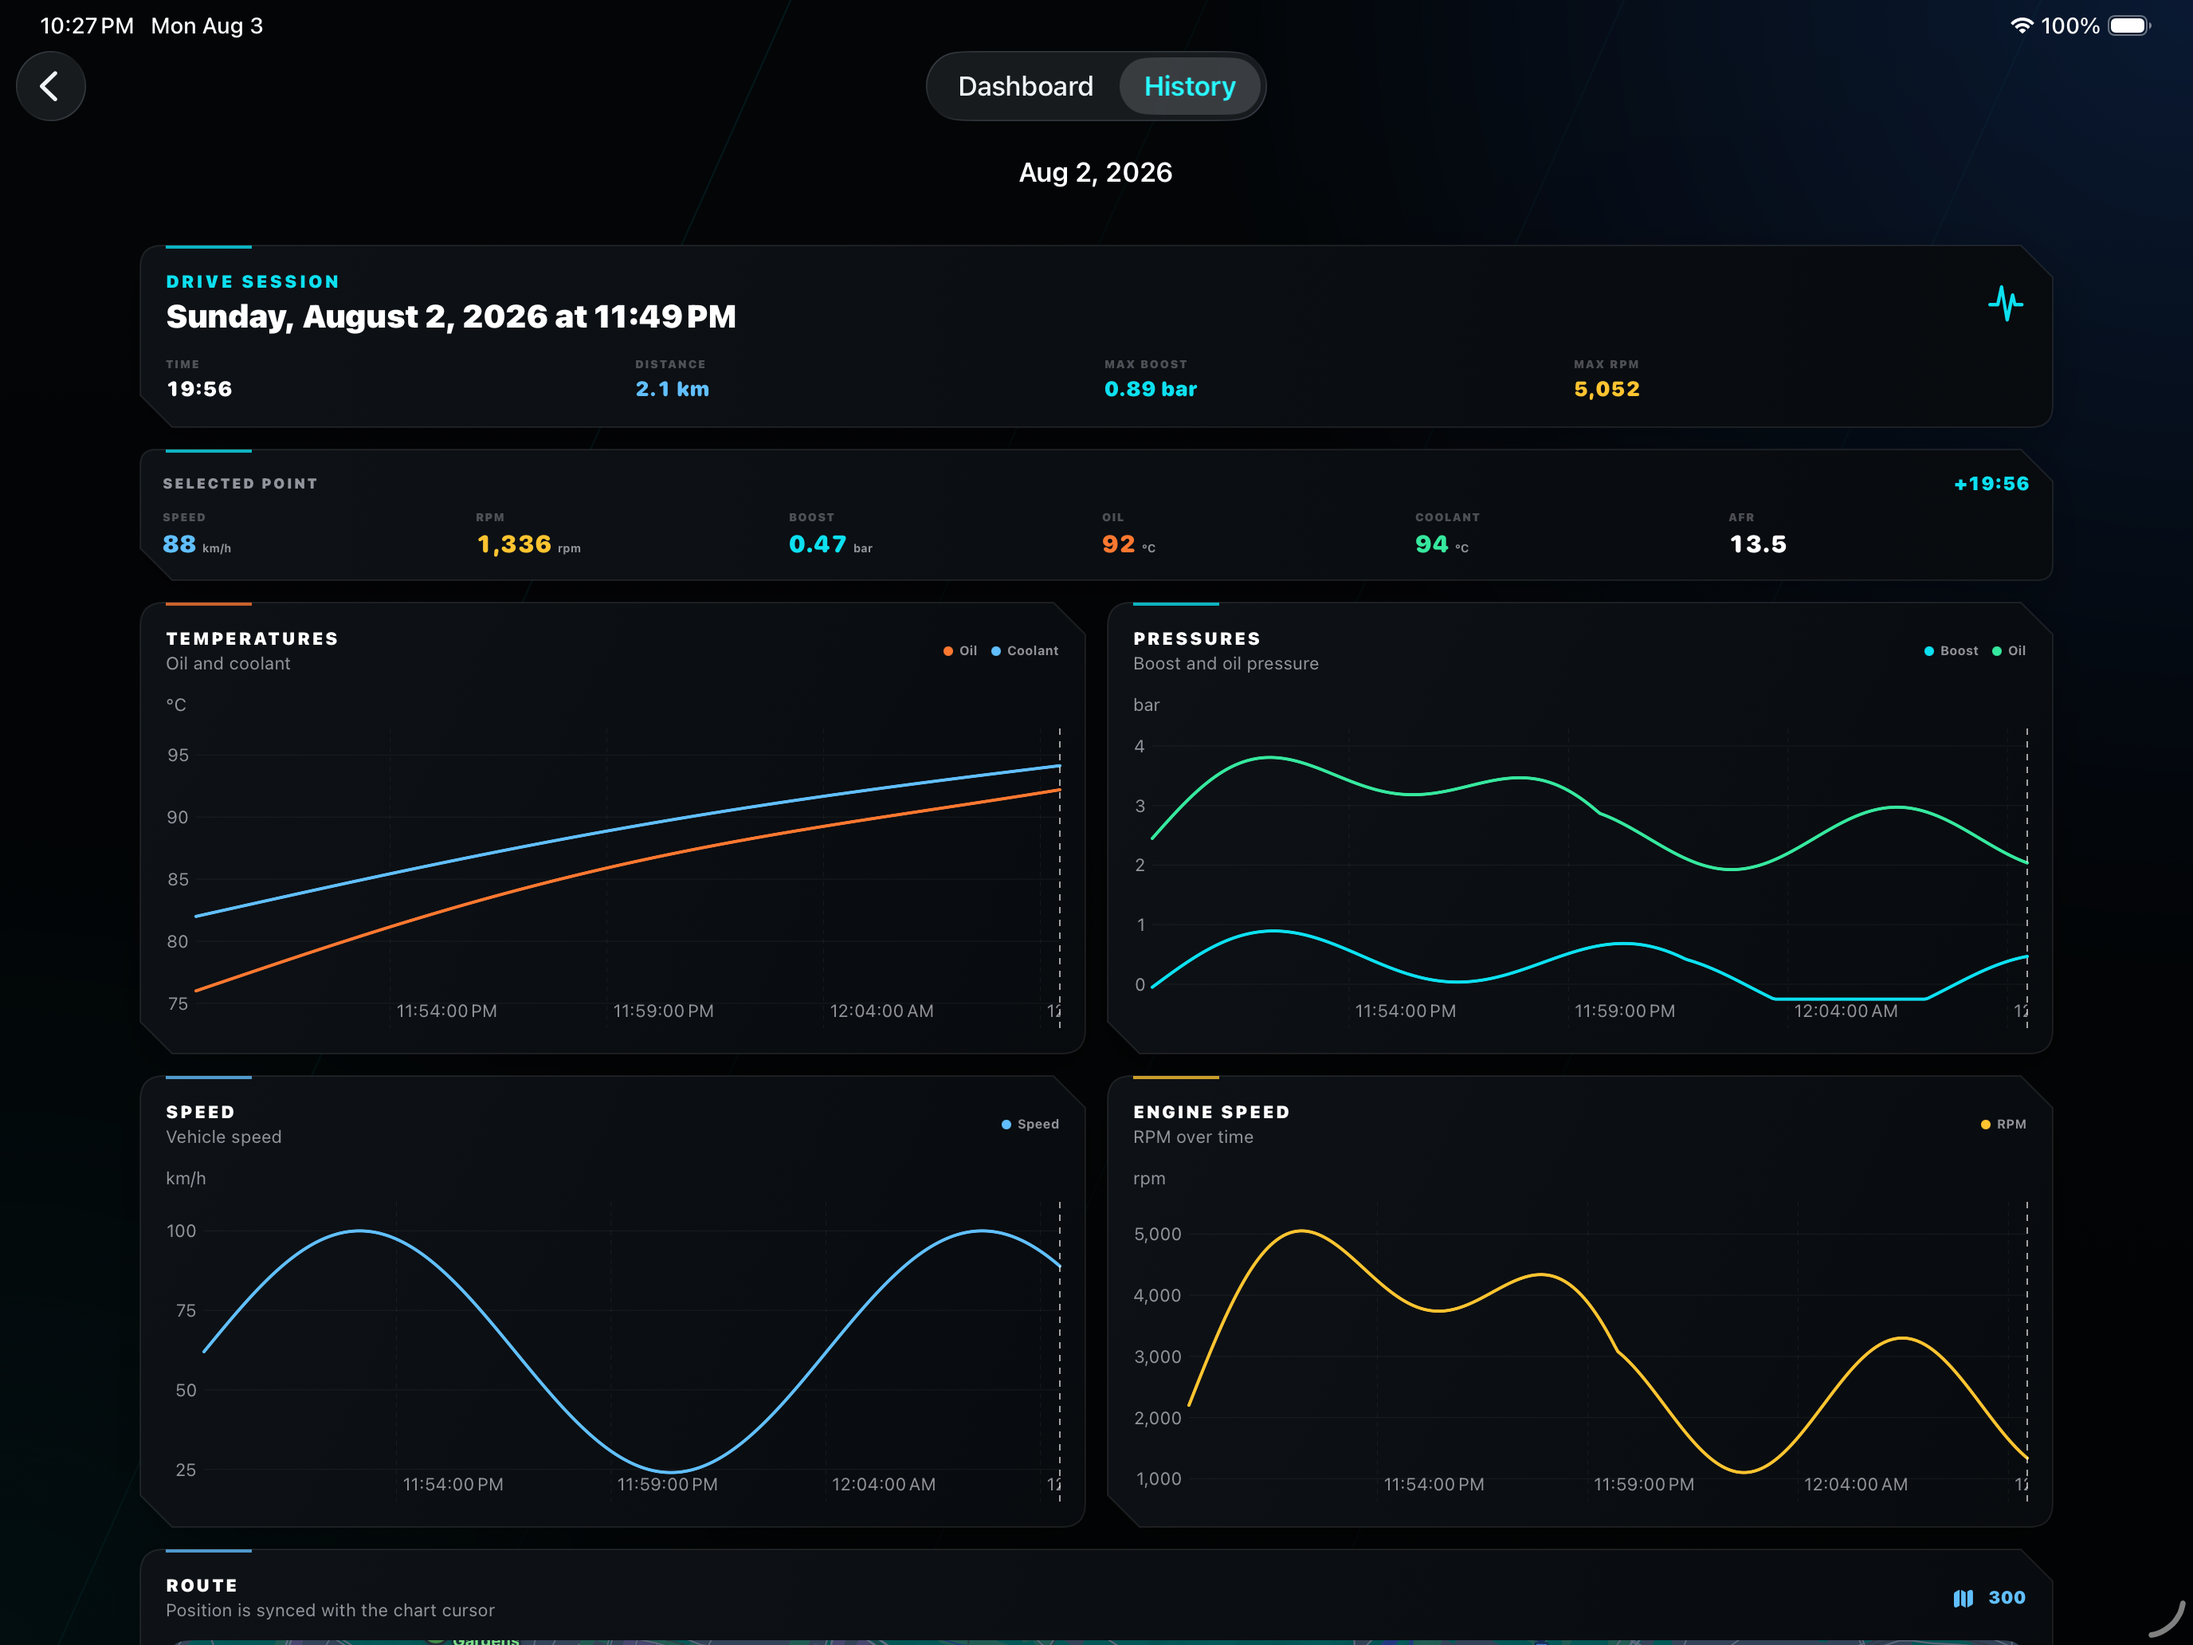
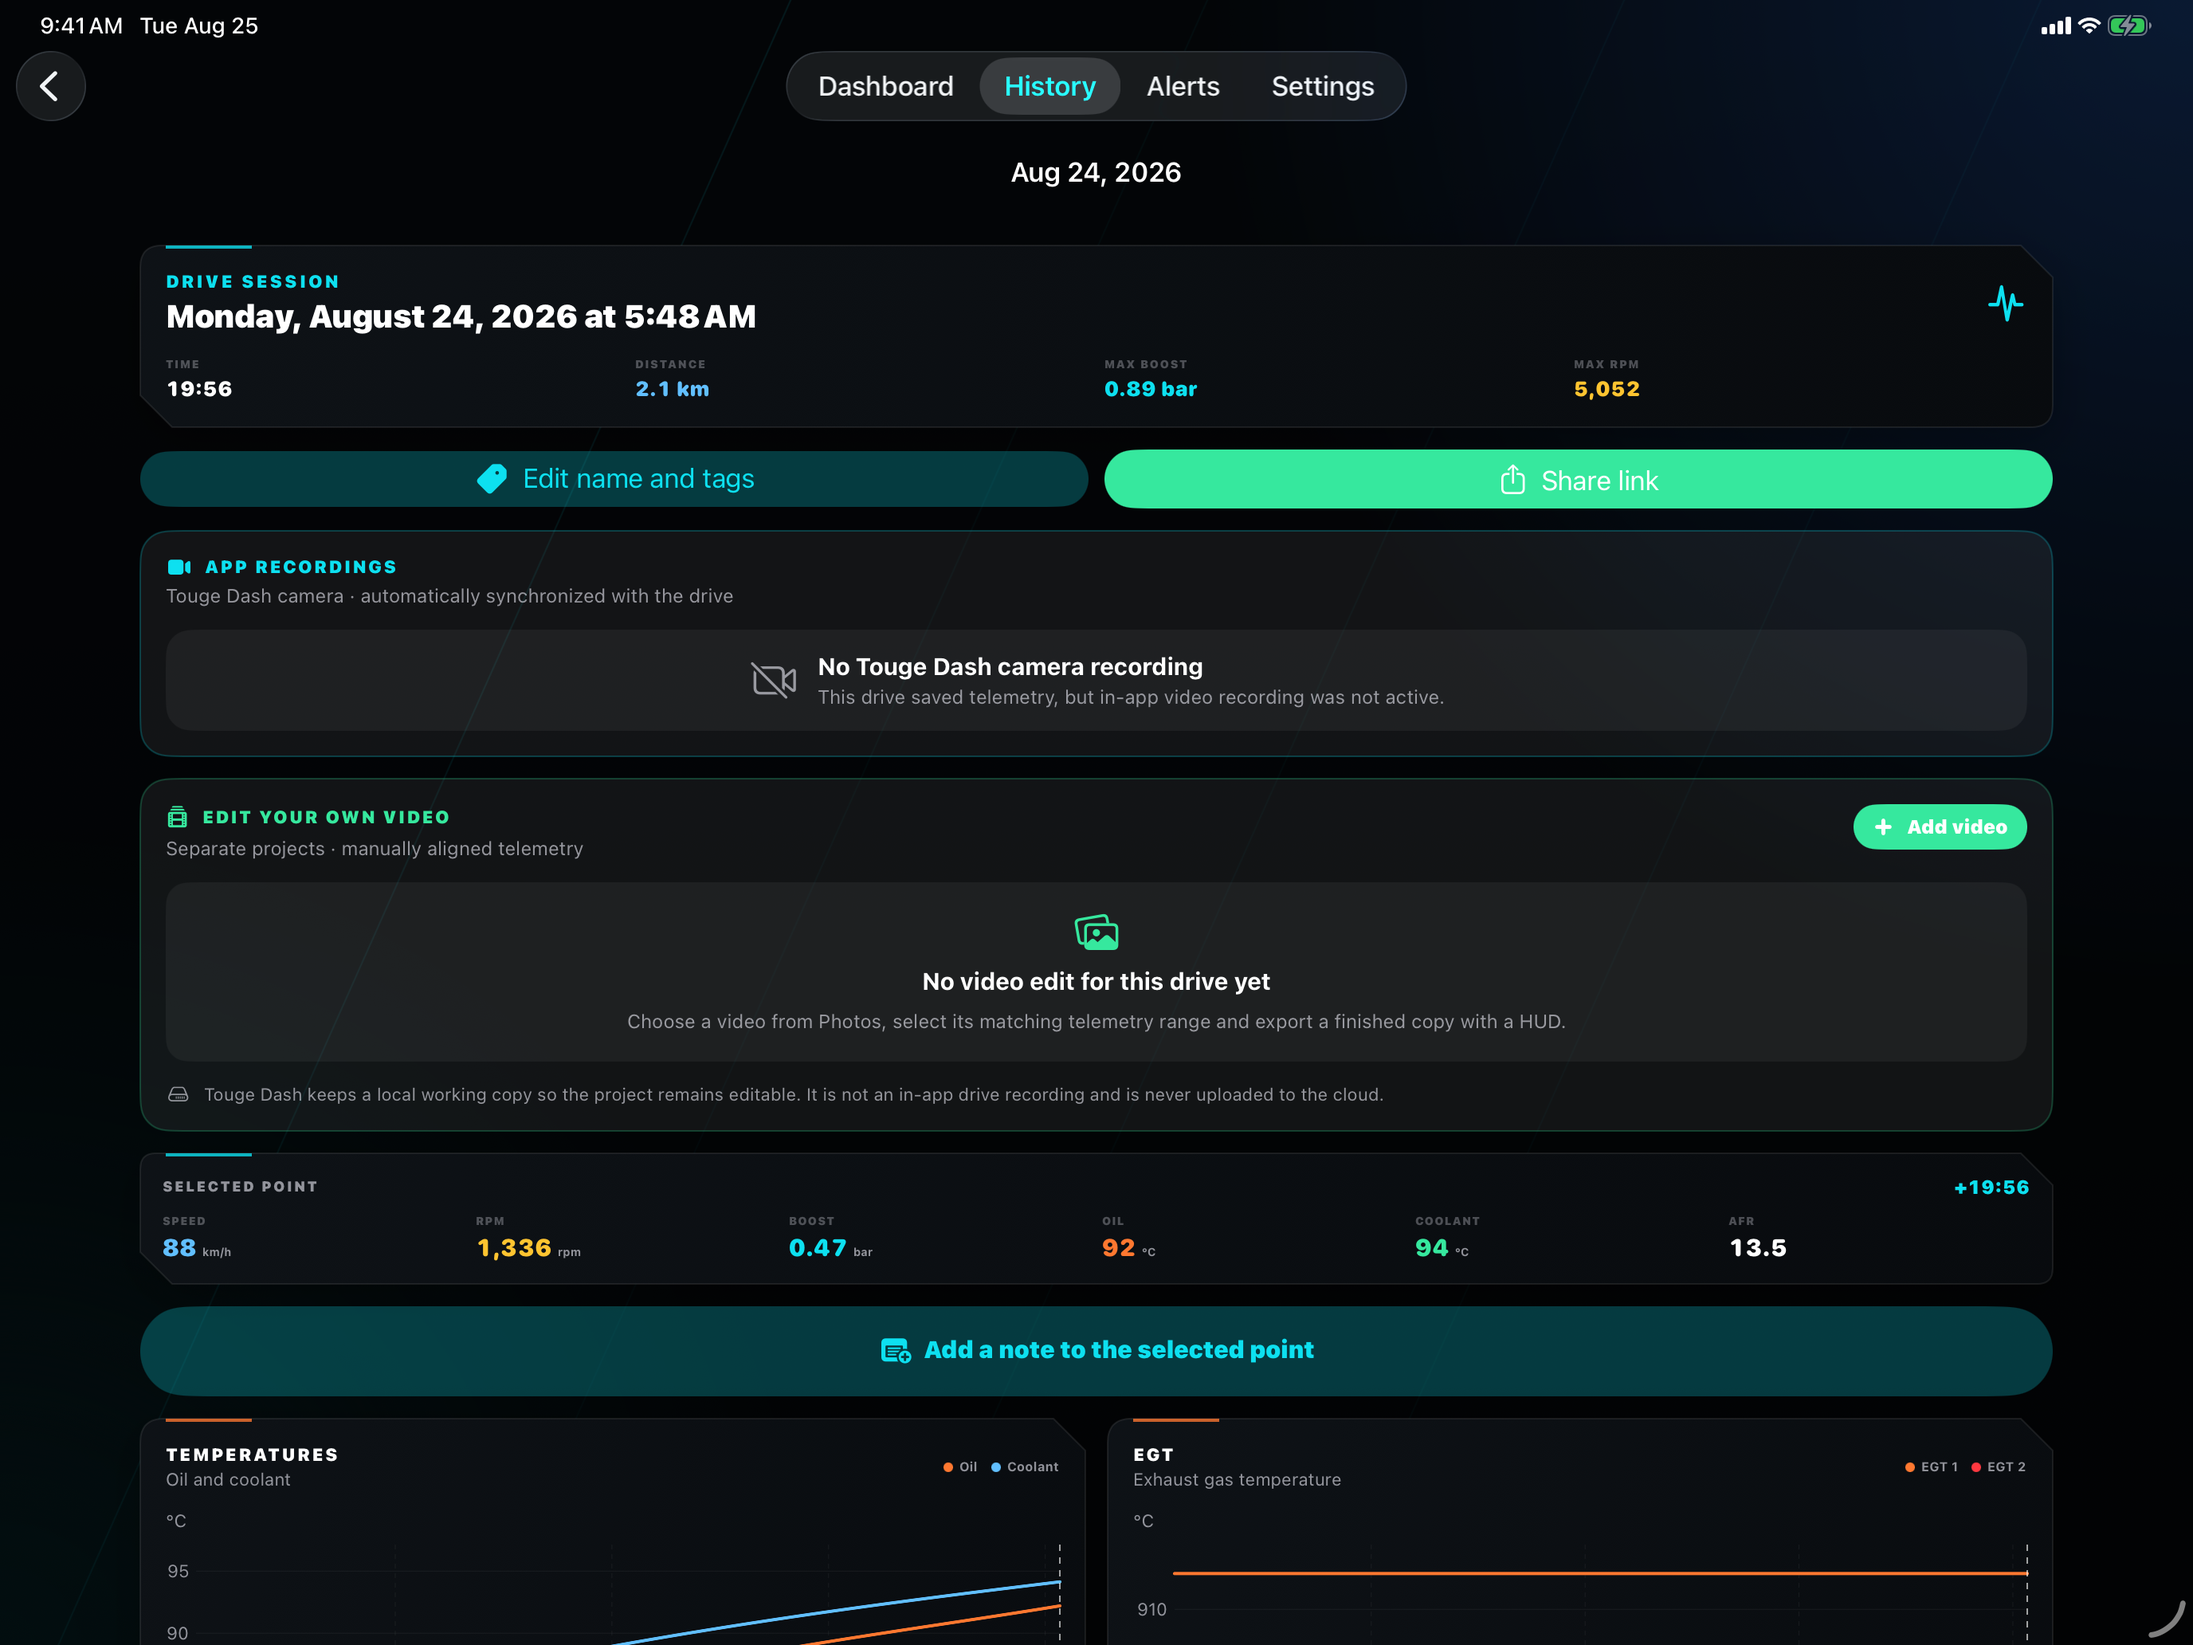
fix(ios): align local history and App Store assets

diff --git a/ios/TougeDash/History/HistoryView.swift b/ios/TougeDash/History/HistoryView.swift
@@ -10,7 +10,7 @@ struct HistoryView: View {
     @Query private var sessions: [DriveSession]
     @Query private var incidents: [DriveIncident]
     @Query private var videos: [DriveVideoRecording]
-    let cloudAccount: CloudAccountService
+    @ObservedObject var cloudAccount: CloudAccountService
     let cloudSync: CloudSyncManager
     let videoOverlays: VideoOverlayTemplateStore
     let activeSessionID: UUID?
@@ -103,7 +103,11 @@ struct HistoryView: View {
                                             cloudSync: cloudSync
                                         )
                                     } label: {
-                                        IncidentListRow(incident: incident, cloudSync: cloudSync)
+                                        IncidentListRow(
+                                            incident: incident,
+                                            cloudSync: cloudSync,
+                                            showsCloudStatus: cloudAccount.isAuthenticated
+                                        )
                                     }
                                     .buttonStyle(.plain)
                                     .disabled(isDeleting)
@@ -157,7 +161,8 @@ struct HistoryView: View {
                                         DriveSessionRow(
                                             session: session,
                                             recordings: videos.filter { $0.sessionID == session.id },
-                                            cloudSync: cloudSync
+                                            cloudSync: cloudSync,
+                                            showsCloudStatus: cloudAccount.isAuthenticated
                                         )
                                     }
                                     .buttonStyle(.plain)
@@ -729,6 +734,7 @@ private struct DriveSessionRow: View {
     let session: DriveSession
     let recordings: [DriveVideoRecording]
     @ObservedObject var cloudSync: CloudSyncManager
+    let showsCloudStatus: Bool
 
     private var videoBytes: Int64 { recordings.reduce(0) { $0 + $1.fileSizeBytes } }
 
@@ -763,7 +769,9 @@ private struct DriveSessionRow: View {
                         .padding(.vertical, 5)
                         .background(Color.tougeBlue.opacity(0.12), in: Capsule())
                 }
-                CloudSyncItemBadge(status: cloudSync.sessionStatus(for: session))
+                if showsCloudStatus {
+                    CloudSyncItemBadge(status: cloudSync.sessionStatus(for: session))
+                }
                 Image(systemName: "chevron.right")
                     .font(.caption.weight(.bold))
                     .foregroundStyle(.tertiary)
@@ -924,12 +932,14 @@ private struct DriveSessionDetailView: View {
                         }
                     }
 
-                    CloudSyncItemCard(
-                        itemName: "PRZEJAZD",
-                        sampleCount: session.sampleCount,
-                        status: cloudSync.sessionStatus(for: session),
-                        onRetry: { Task { await cloudSync.retrySynchronization() } }
-                    )
+                    if cloudAccount.isAuthenticated {
+                        CloudSyncItemCard(
+                            itemName: "PRZEJAZD",
+                            sampleCount: session.sampleCount,
+                            status: cloudSync.sessionStatus(for: session),
+                            onRetry: { Task { await cloudSync.retrySynchronization() } }
+                        )
+                    }
 
                     DriveVideoHistorySection(
                         session: session,
@@ -968,7 +978,11 @@ private struct DriveSessionDetailView: View {
                                         cloudSync: cloudSync
                                     )
                                 } label: {
-                                    IncidentListRow(incident: incident, cloudSync: cloudSync)
+                                    IncidentListRow(
+                                        incident: incident,
+                                        cloudSync: cloudSync,
+                                        showsCloudStatus: cloudAccount.isAuthenticated
+                                    )
                                 }
                                 .buttonStyle(.plain)
                             }

diff --git a/ios/TougeDash/History/IncidentReportView.swift b/ios/TougeDash/History/IncidentReportView.swift
@@ -56,12 +56,14 @@ struct IncidentReportView: View {
                 LazyVStack(spacing: 14) {
                     IncidentHeroCard(incident: incident)
 
-                    CloudSyncItemCard(
-                        itemName: "RAPORT INCYDENTU",
-                        sampleCount: incident.sampleCount,
-                        status: cloudSync.incidentStatus(for: incident),
-                        onRetry: { Task { await cloudSync.retrySynchronization() } }
-                    )
+                    if cloudAccount.isAuthenticated {
+                        CloudSyncItemCard(
+                            itemName: "RAPORT INCYDENTU",
+                            sampleCount: incident.sampleCount,
+                            status: cloudSync.incidentStatus(for: incident),
+                            onRetry: { Task { await cloudSync.retrySynchronization() } }
+                        )
+                    }
 
                     if let selectedSample {
                         IncidentMomentCard(
@@ -168,6 +170,7 @@ struct IncidentReportView: View {
 struct IncidentListRow: View {
     let incident: DriveIncident
     @ObservedObject var cloudSync: CloudSyncManager
+    let showsCloudStatus: Bool
 
     var body: some View {
         HStack(spacing: 13) {
@@ -199,7 +202,9 @@ struct IncidentListRow: View {
             }
 
             Spacer()
-            CloudSyncItemBadge(status: cloudSync.incidentStatus(for: incident))
+            if showsCloudStatus {
+                CloudSyncItemBadge(status: cloudSync.incidentStatus(for: incident))
+            }
             Image(systemName: "chevron.right")
                 .font(.caption.weight(.black))
                 .foregroundStyle(.tertiary)

diff --git a/docs/app-store/release-checklist.md b/docs/app-store/release-checklist.md
@@ -31,7 +31,7 @@
 - [x] iPhone 6.9-inch screenshots are prepared without an alpha channel.
 - [x] iPad 13-inch screenshots are prepared without an alpha channel.
 - [x] Apple Watch screenshots are prepared without an alpha channel.
-- [ ] Existing iPhone, iPad and Apple Watch screenshots are checked against the current `1.4.2` UI.
+- [x] iPhone and iPad screenshots are regenerated for the current four-tab `1.4.2 (21)` UI; Apple Watch screenshots are checked against the current Watch UI.
 - [x] Age rating questionnaire is completed with a `4+` result.
 - [x] Availability in 175 countries or regions, free price and manual release are configured.
 
